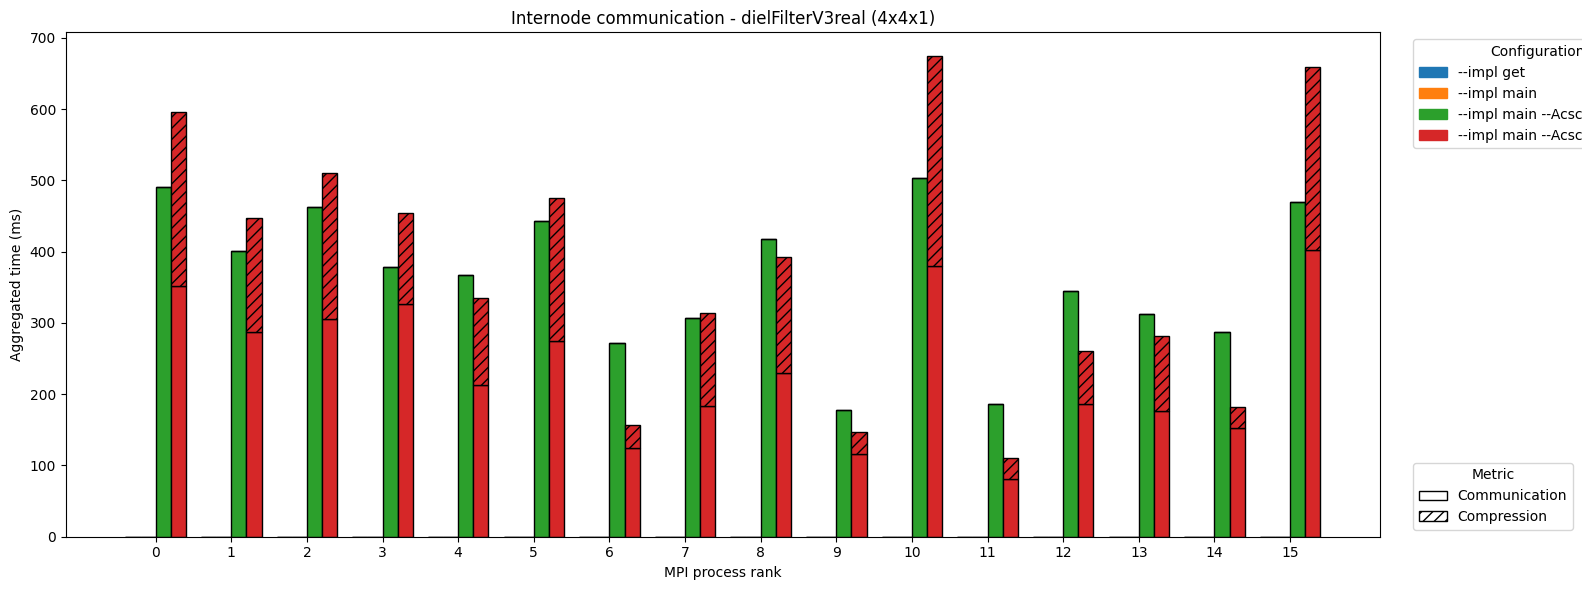
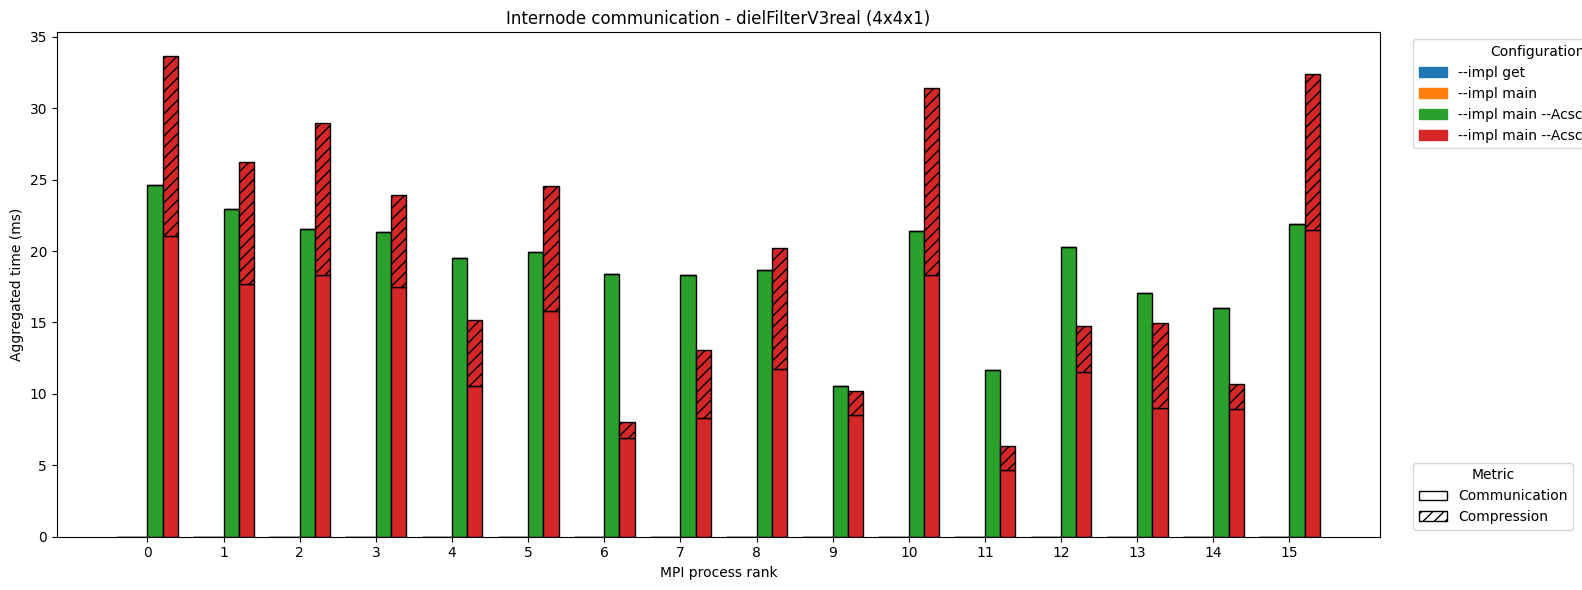
aggregation fix

diff --git a/plot_bars.py b/plot_bars.py
@@ -30,11 +30,20 @@ def parse_params(filename):
 import matplotlib.patches as mpatches
 
 def make_barplot(df, grid, matrix, outdir):
-    # Average over rounds
-    dfavg = df.groupby(["process", "config"], as_index=False)[["compression", "communication"]].sum()
+    # ----- Aggregation phase -----
+    # Step 1: average over rounds
+    df_roundavg = df.groupby(
+        ["process", "target", "operand", "config"], as_index=False
+    )[["compression", "communication"]].mean()
+
+    # Step 2: sum over targets (keeping process/operand/config)
+    df_sum = df_roundavg.groupby(
+        ["process", "operand", "config"], as_index=False
+    )[["compression", "communication"]].sum()
+    # -----------------------------
 
     # Get order of processes and configs
-    proc_order = sorted(dfavg["process"].unique(), key=int)
+    proc_order = sorted(df_sum["process"].unique(), key=int)
     config_order = ["--impl get", "--impl main", "--impl main --Acsc", "--impl main --Acsc --spcomm"]
 
     # Prepare bar positions
@@ -48,7 +57,7 @@ def make_barplot(df, grid, matrix, outdir):
     cmap = plt.get_cmap("tab10")  # categorical palette
 
     for i, cfg in enumerate(config_order):
-        dcfg = dfavg[dfavg["config"] == cfg]
+        dcfg = df_sum[df_sum["config"] == cfg]
         # align with proc_order
         y_comp = [dcfg.loc[dcfg["process"] == p, "compression"].values[0] if p in dcfg["process"].values else 0 for p in proc_order]
         y_comm = [dcfg.loc[dcfg["process"] == p, "communication"].values[0] if p in dcfg["process"].values else 0 for p in proc_order]
